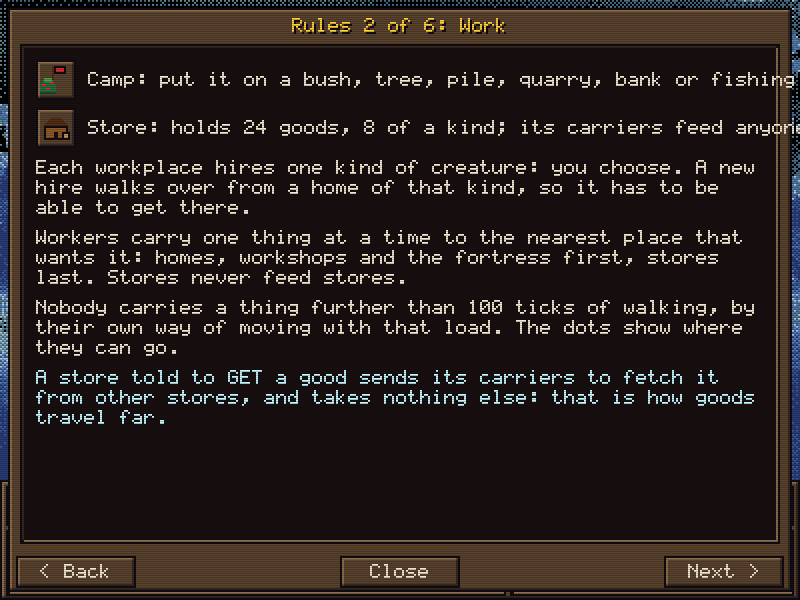
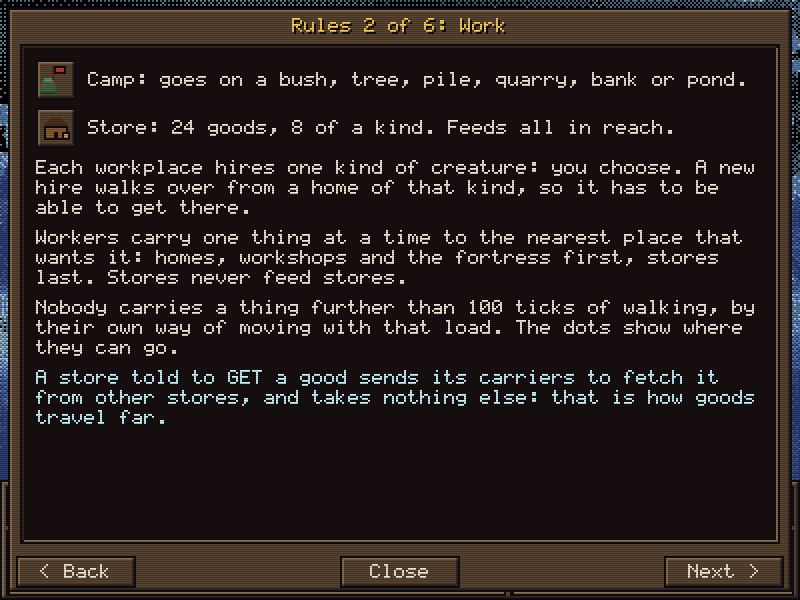
Bird Fortress: shorter lines on the Work rules page

diff --git a/birdfortress/src/render.rs b/birdfortress/src/render.rs
@@ -1782,12 +1782,12 @@ fn draw_help(g: &Game, fb: &mut Framebuffer) {
             let f = Rect::new(x, y, 20, 20);
             ui::button_face(fb, f, false, false);
             tool_icon(fb, g, Tool::Build(Kind::Camp), f);
-            fb.text("Camp: put it on a bush, tree, pile, quarry, bank or fishing spot.", x + 26, y + 6, TEXT, None, 1);
+            fb.text("Camp: goes on a bush, tree, pile, quarry, bank or pond.", x + 26, y + 6, TEXT, None, 1);
             y += 24;
             let f = Rect::new(x, y, 20, 20);
             ui::button_face(fb, f, false, false);
             tool_icon(fb, g, Tool::Build(Kind::Store), f);
-            fb.text("Store: holds 24 goods, 8 of a kind; its carriers feed anyone in reach.", x + 26, y + 6, TEXT, None, 1);
+            fb.text("Store: 24 goods, 8 of a kind. Feeds all in reach.", x + 26, y + 6, TEXT, None, 1);
             y += 26;
             para(fb, "Each workplace hires one kind of creature: you choose. A new hire walks over from a home of that kind, so it has to be able to get there.", TEXT, &mut y);
             para(fb, "Workers carry one thing at a time to the nearest place that wants it: homes, workshops and the fortress first, stores last. Stores never feed stores.", TEXT, &mut y);
